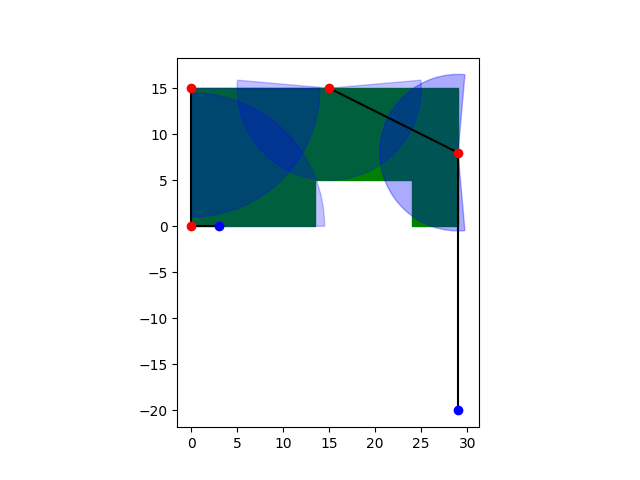
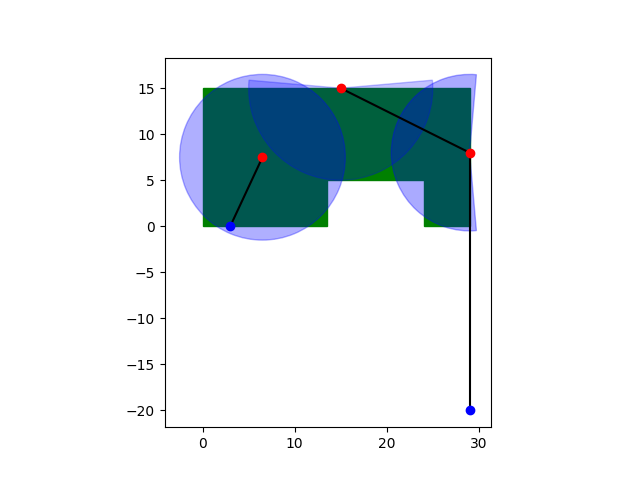
this is a step towards something better

diff --git a/lawnsim/plotter.py b/lawnsim/plotter.py
@@ -60,33 +60,34 @@ little_lavender_hose = Hose(
     length=10.0,
 )
 corner_sprinkler = Sprinkler(
-    location=Location(x=0.0, y=0.0),
-    spray_arc=90.0,
+    location=Location(x=6.5, y=7.5),
+    spray_arc=360.0,
     spray_direction=45,
-    spray_radius=14.5,
+    spray_radius=9.0,
+    water_flow_rate=80.0,
 )
 side_spigot.connect(sink=little_lavender_hose)
 little_lavender_hose.connect(sink=corner_sprinkler)
-lavender_hose = Hose(
-    length=25.0,
-)
-lavender_sprinkler = Sprinkler(
-    location=Location(x=0.0, y=15.0),
-    spray_arc=90,
-    spray_direction=315,
-    spray_radius=14.0,
-)
-corner_sprinkler.connect(sink=lavender_hose)
-lavender_hose.connect(sink=lavender_sprinkler)
+# lavender_hose = Hose(
+#     length=25.0,
+# )
+# lavender_sprinkler = Sprinkler(
+#     location=Location(x=0.0, y=15.0),
+#     spray_arc=90,
+#     spray_direction=315,
+#     spray_radius=14.0,
+# )
+# corner_sprinkler.connect(sink=lavender_hose)
+# lavender_hose.connect(sink=lavender_sprinkler)
 
 
 spigots = [walkway_spigot, side_spigot]
-hoses = [hydrangea_hose, tulip_hose, little_lavender_hose, lavender_hose]
+hoses = [hydrangea_hose, tulip_hose, little_lavender_hose]  # , lavender_hose]
 sprinklers = [
     hydrangea_sprinkler,
     tulip_sprinkler,
     corner_sprinkler,
-    lavender_sprinkler,
+    # lavender_sprinkler,
 ]
 
 lawn = Lawn(
